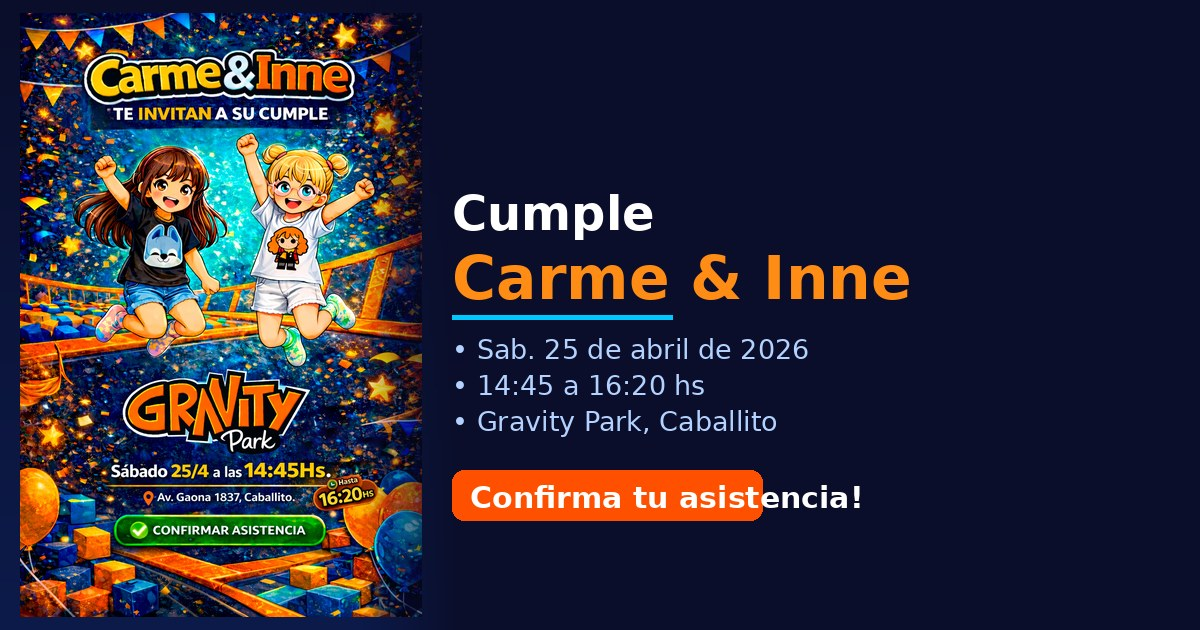
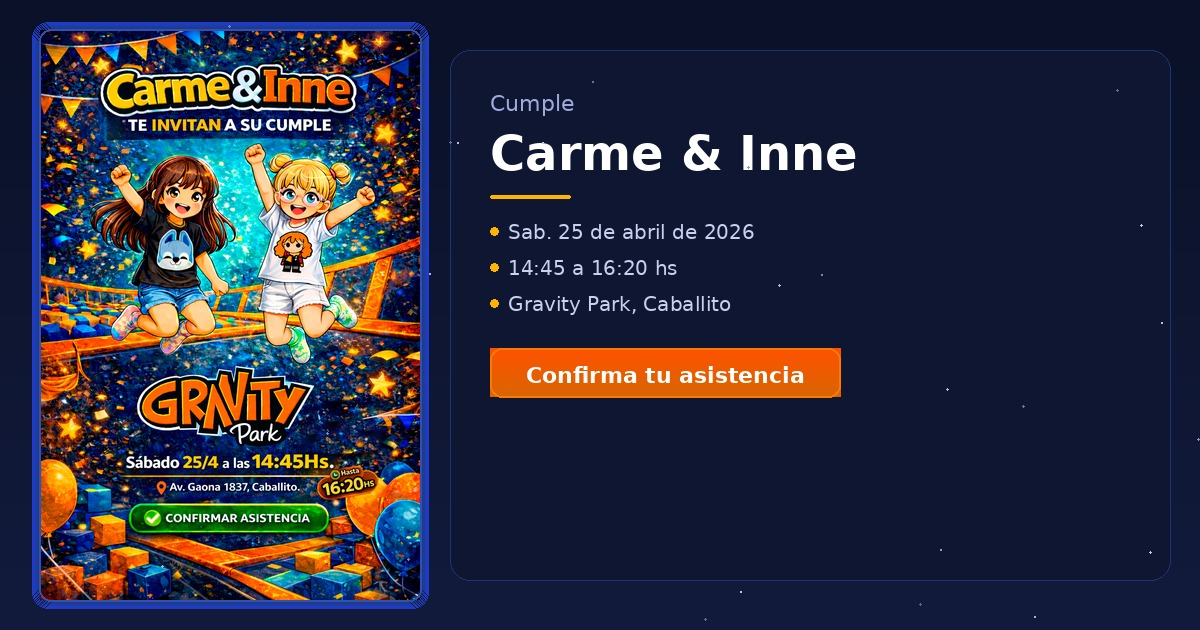
feat: OG image fix + post-event behavior for countdown & RSVP sections
- Fix CTA button background in og-social.jpg
- CountdownSection: show 'Ya estamos festejando' when expired, remove emojis
- RSVPSection: show 'Gracias por venir' message after event ends

diff --git a/components/RSVPSection.tsx b/components/RSVPSection.tsx
@@ -1,10 +1,43 @@
+"use client";
+
+import { useState, useEffect } from "react";
 import RSVPForm from "./RSVPForm";
 import { EVENT_CONFIG } from "@/lib/event-config";
 import ParticleField from "./ParticleField";
 import ShootingStars from "./ShootingStars";
 import FloatingEmojis from "./FloatingEmojis";
 
+function EventPassed() {
+  return (
+    <div className="py-12 flex flex-col items-center text-center">
+      <div className="text-6xl mb-6">
+        <span style={{ animation: "float 2.5s ease-in-out infinite" }}>*</span>
+      </div>
+      <h3 className="font-fredoka text-3xl md:text-4xl gradient-text mb-3">
+        Gracias por venir
+      </h3>
+      <p className="font-nunito text-white/85 text-lg mb-2">
+        El cumple de Carme & Inne ya fue un exito
+      </p>
+      <p className="font-nunito text-gp-text-dim text-sm max-w-xs">
+        La pasamos increible en Gravity Park. Gracias a todos los que vinieron a festejar con nosotros.
+      </p>
+    </div>
+  );
+}
+
 export default function RSVPSection() {
+  const [expired, setExpired] = useState(false);
+  const [mounted, setMounted] = useState(false);
+
+  useEffect(() => {
+    setMounted(true);
+    const eventEnd = new Date(EVENT_CONFIG.dateISO);
+    // Consider event over 2 hours after start time
+    eventEnd.setHours(eventEnd.getHours() + 2);
+    setExpired(new Date() > eventEnd);
+  }, []);
+
   return (
     <section
       id="rsvp-section"
@@ -25,16 +58,18 @@ export default function RSVPSection() {
         <div className="text-center mb-8">
           <div className="section-divider mb-5" />
           <h2 className="font-fredoka text-3xl md:text-4xl text-white mb-2">
-            Confirmá tu asistencia
+            {mounted && expired ? "El cumple ya paso" : "Confirma tu asistencia"}
           </h2>
-          <p className="font-nunito text-gp-text-dim text-base">
-            Completá el formulario y listo — te enviamos un recordatorio el día de{" "}
-            <span className="text-white font-bold">{EVENT_CONFIG.name}</span> 🎉
-          </p>
+          {!(mounted && expired) && (
+            <p className="font-nunito text-gp-text-dim text-base">
+              Completa el formulario y listo — te enviamos un recordatorio el dia de{" "}
+              <span className="text-white font-bold">{EVENT_CONFIG.name}</span>
+            </p>
+          )}
         </div>
 
         <div className="glass-card-orange rounded-3xl p-6 md:p-8 shadow-2xl">
-          <RSVPForm />
+          {mounted && expired ? <EventPassed /> : <RSVPForm />}
         </div>
       </div>
     </section>

diff --git a/components/CountdownSection.tsx b/components/CountdownSection.tsx
@@ -101,14 +101,16 @@ export default function CountdownSection() {
       <div className="relative z-10 max-w-2xl mx-auto text-center">
         <div className="section-divider mb-6" />
         <h2 className="font-fredoka text-3xl md:text-4xl text-white mb-1">
-          {timeLeft.expired ? "¡Ya está arrancando! 🎉" : "Falta muy poquito"}
+          {timeLeft.expired ? "Ya estamos festejando" : "Falta muy poquito"}
         </h2>
         <p className="font-nunito text-gp-text-dim text-sm mb-8">
-          El reloj corre... ¡no te quedés sin lugar!
+          {timeLeft.expired
+            ? "El cumple de Carme & Inne esta en curso"
+            : "El reloj corre... no te quedes sin lugar"}
         </p>
 
         {timeLeft.expired ? (
-          <div className="text-5xl animate-bounce mb-4">🎉🎊🎈</div>
+          <div className="text-5xl animate-bounce mb-4">* * *</div>
         ) : (
           <div className="grid grid-cols-4 gap-3 md:gap-5">
             <CountdownUnit value={timeLeft.days}    label="Días"  color="glow-blue"   />
@@ -121,7 +123,7 @@ export default function CountdownSection() {
         <EventDetails />
 
         <p className="mt-10 font-nunito text-gp-text-dim text-sm">
-          Te esperamos para saltar, jugar y divertirnos juntos 🕹
+          Te esperamos para saltar, jugar y divertirnos juntos
         </p>
       </div>
     </section>
